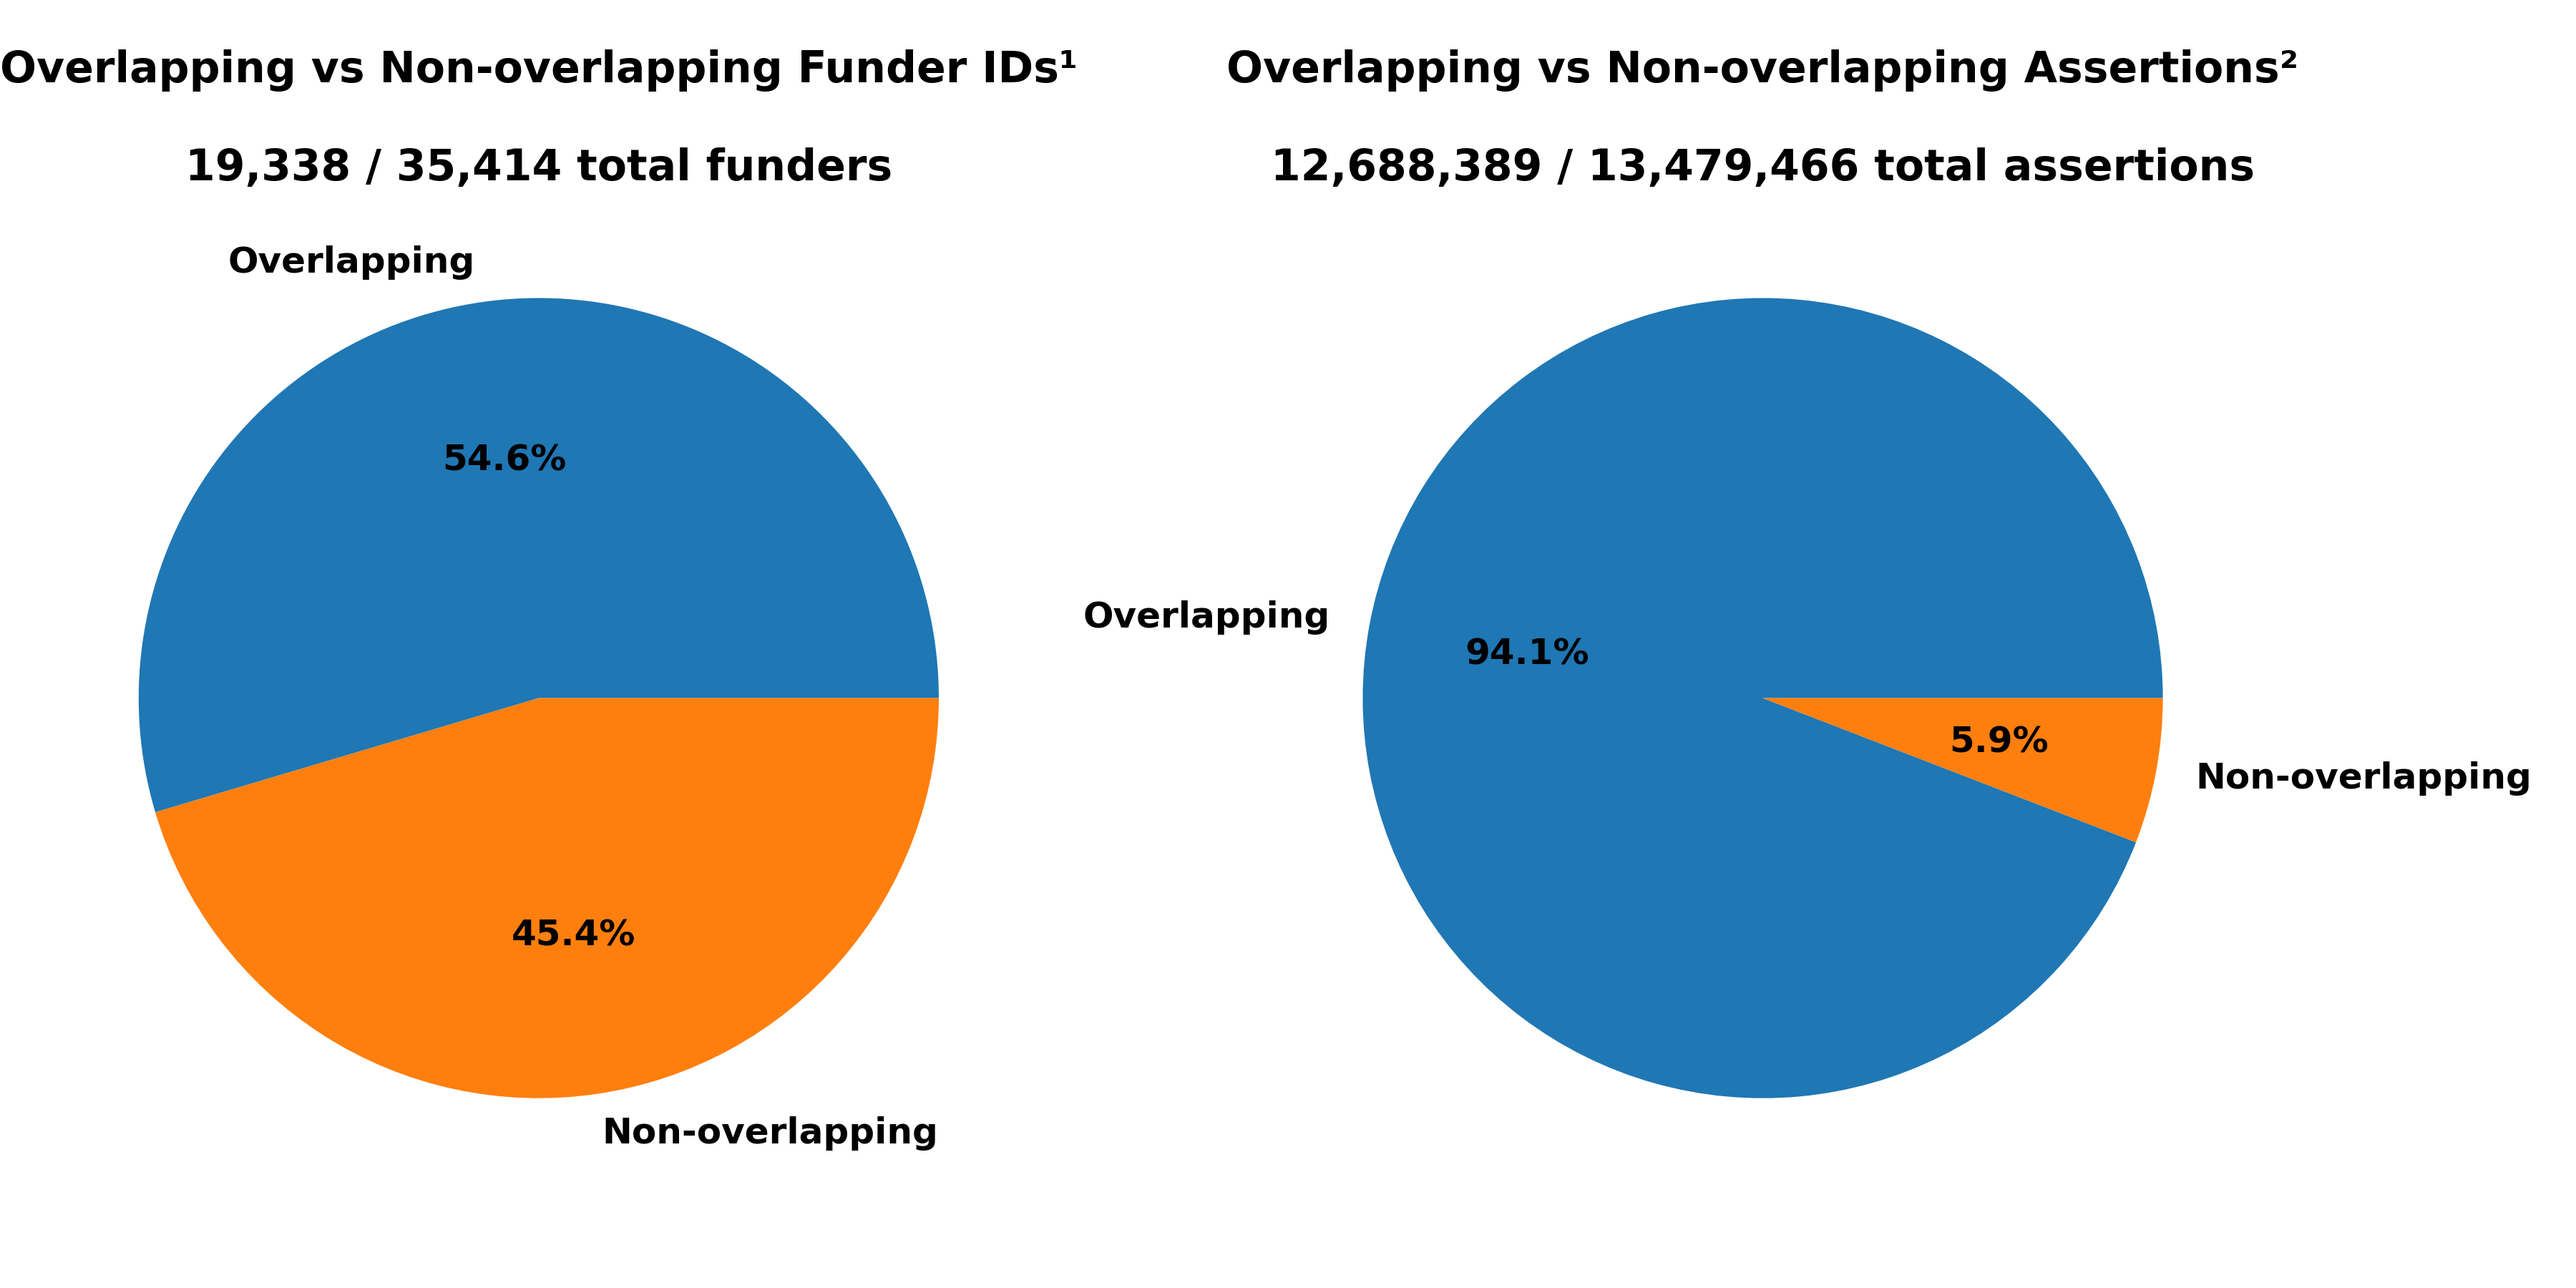
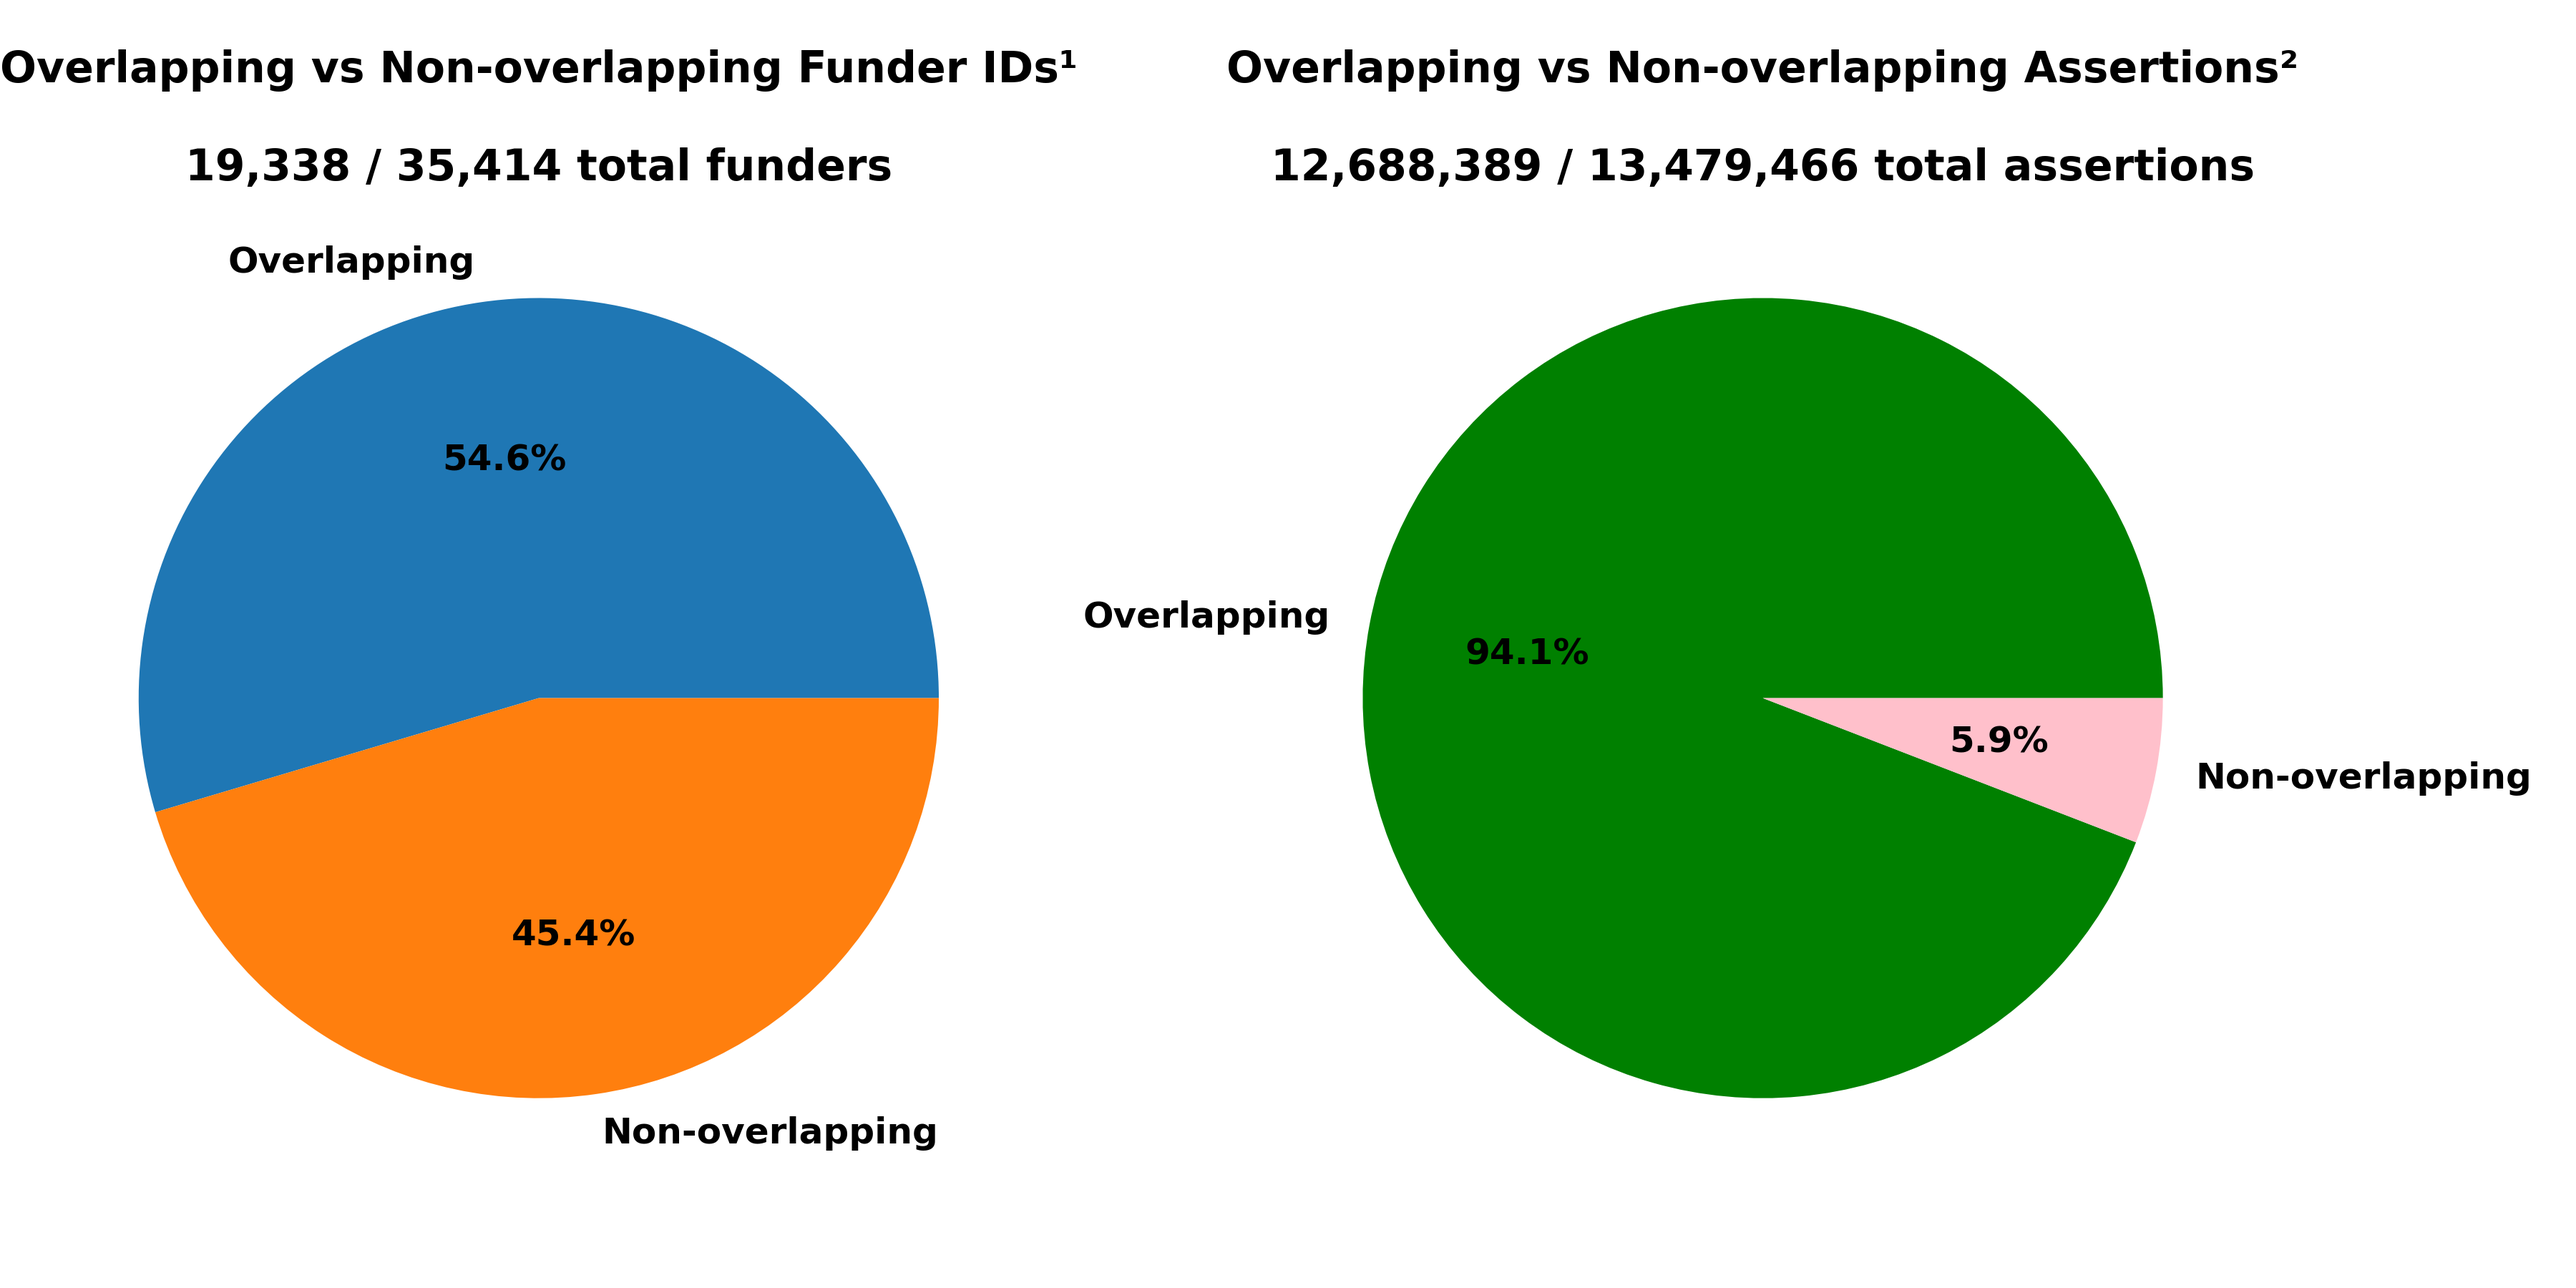
Using separate color schemes for left and right charts

Changed region(s): [[0.5289, 0.2178, 0.84, 0.8711]]

diff --git a/utilities/create_aggregate_charts.py b/utilities/create_aggregate_charts.py
@@ -66,18 +66,21 @@ def load_datacite():
 
 
 def save_plot(fig, filename):
-    fig.savefig(filename, dpi=300)
+	fig.savefig(filename, dpi=300)
 
 
 def plot_overlap(overlap_data, data_source):
 	fig, axs = plt.subplots(1, 2, figsize=(12, 6))
 	mpl.rcParams['font.size'] = 12
 	mpl.rcParams['font.weight'] = 'bold'
+	funder_colors = ['tab:blue', 'tab:orange']
+	assertion_colors = ['green', 'pink']
 
 	axs[0].pie(
 		[overlap_data['overlapping_funders_percentage'], overlap_data['non_overlapping_funders_percentage']],
 		labels=['Overlapping', 'Non-overlapping'],
-		autopct='%1.1f%%'
+		autopct='%1.1f%%',
+		colors=funder_colors
 	)
 	axs[0].set_title(
 		f"Overlapping vs Non-overlapping Funder IDs¹\n\n{format(overlap_data['overlapping_funders'], ',d')} / {format(overlap_data['total_funders'], ',d')} total funders",
@@ -87,7 +90,8 @@ def plot_overlap(overlap_data, data_source):
 	axs[1].pie(
 		[overlap_data['overlapping_assertions_percentage'], overlap_data['non_overlapping_assertions_percentage']],
 		labels=['Overlapping', 'Non-overlapping'],
-		autopct='%1.1f%%'
+		autopct='%1.1f%%',
+		colors=assertion_colors
 	)
 	axs[1].set_title(
 		f"Overlapping vs Non-overlapping Assertions²\n\n{format(overlap_data['overlapping_assertions'], ',d')} / {format(overlap_data['total_assertions'], ',d')} total assertions",

diff --git a/views/member_view.py b/views/member_view.py
@@ -70,13 +70,15 @@ def calculate_percentages(overlap, funders, equivalents):
     fig, axs = plt.subplots(1, 2, figsize=(12, 6))
     mpl.rcParams['font.size'] = 12
     mpl.rcParams['font.weight'] = 'bold'
+    funder_colors = ['tab:blue', 'tab:orange']
+    assertion_colors = ['green', 'pink']
 
     axs[0].pie([overlapping_funders_percentage, non_overlapping_funders_percentage], labels=[
-               'Overlapping', 'Non-overlapping'], autopct='%1.1f%%')
+               'Overlapping', 'Non-overlapping'], autopct='%1.1f%%', colors=funder_colors)
     axs[0].set_title(f"Overlapping vs Non-overlapping Funder IDs¹\n\n{format(overlapping_funders, ',d')} / {format(total_funders, ',d')} total funders", fontweight='bold')
 
     axs[1].pie([overlapping_assertions_percentage, non_overlapping_assertions_percentage], labels=[
-               'Overlapping', 'Non-overlapping'], autopct='%1.1f%%')
+               'Overlapping', 'Non-overlapping'], autopct='%1.1f%%', colors=assertion_colors)
     axs[1].set_title(f"Overlapping vs Non-overlapping Assertions²\n\n{format(overlapping_assertions, ',d')} / {format(total_assertions, ',d')} total assertions", fontweight='bold')
 
     plt.tight_layout()
